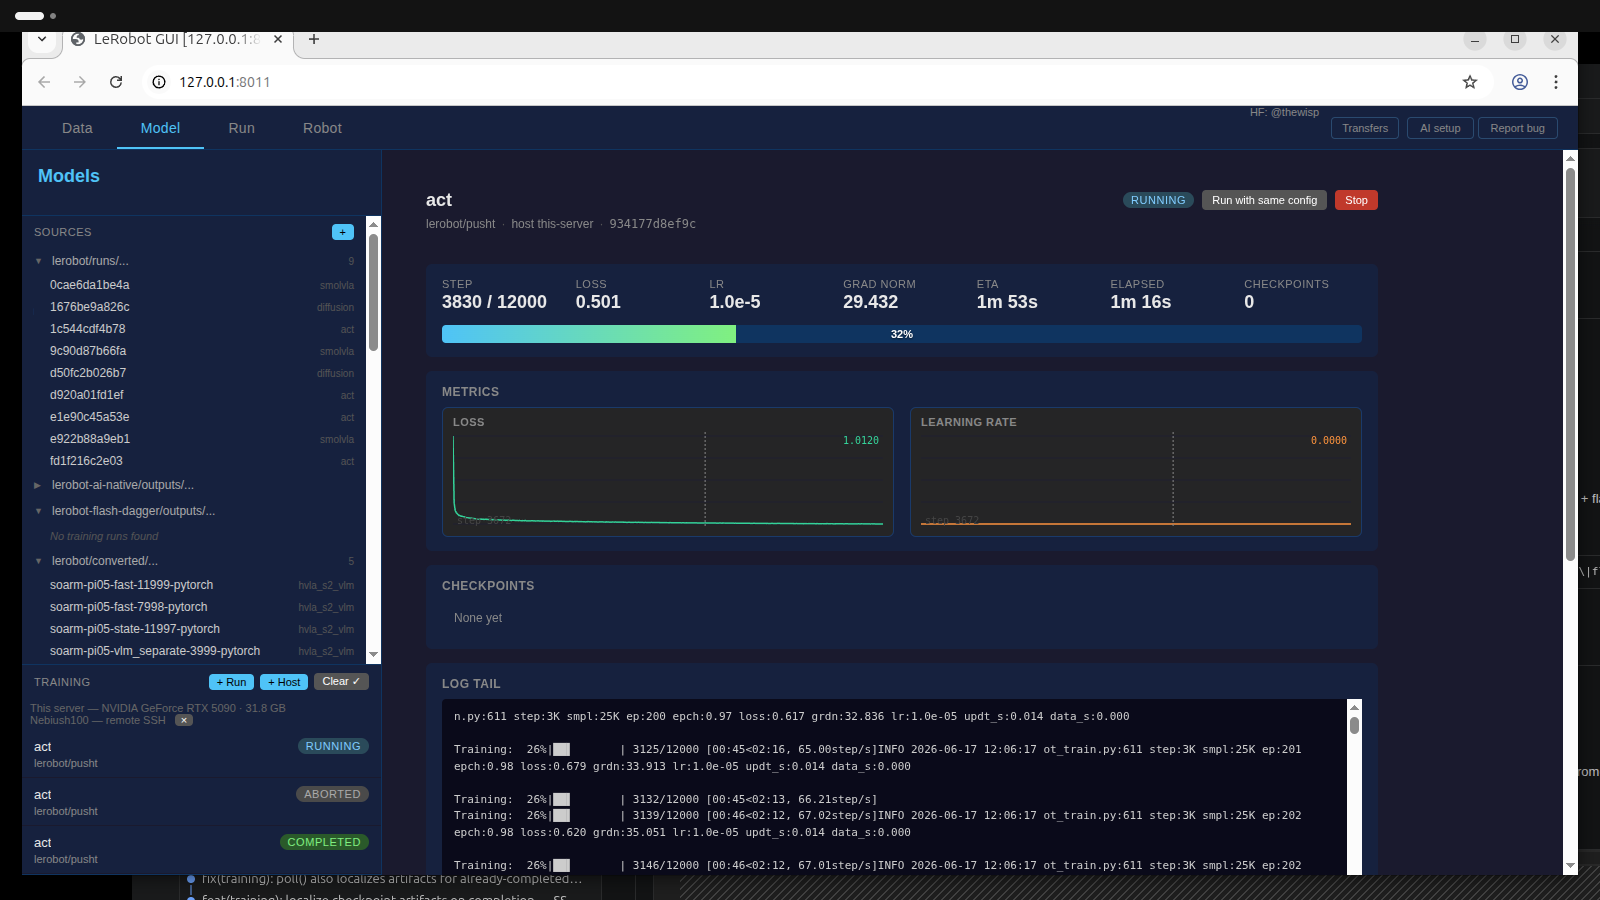
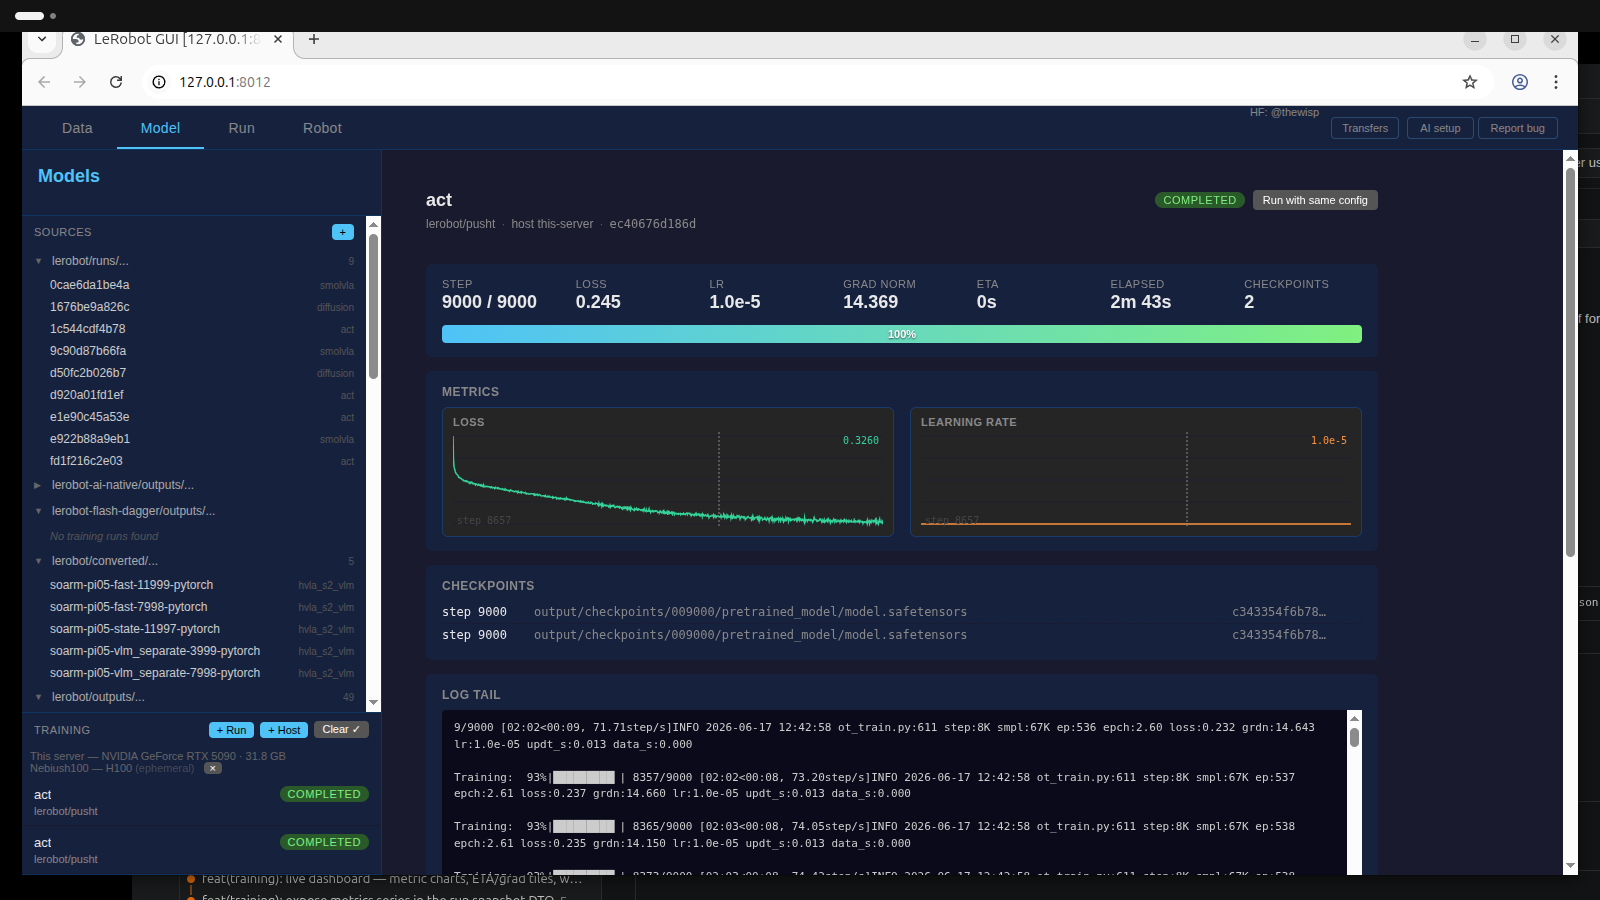
feat(training): log-scale loss chart + readable small-value labels
The loss spans orders of magnitude (warm-up ~40 → ~0.2); on a linear axis the
spike flattened the whole curve. Loss now renders log-y, so the descent is
visible. Chart value labels use scientific notation for tiny magnitudes — a
learning rate of 1e-5 was showing as "0.0000". Refresh the mid-run evidence
with a live recording (gif/mp4) + log-y stills.

diff --git a/src/lerobot/gui/static/charts.js b/src/lerobot/gui/static/charts.js
@@ -49,6 +49,15 @@ function _chartFmtAgo(ts) {
   return Math.round(ago / 3600) + "h ago";
 }
 
+// Value label: scientific for very small/large magnitudes (a learning rate of
+// 1e-5 must not render as "0.0000"), fixed otherwise.
+function _chartFmtValue(v) {
+  if (v === 0) return "0";
+  const a = Math.abs(v);
+  if (a < 1e-3 || a >= 1e5) return v.toExponential(1);
+  return a < 1 ? v.toFixed(4) : v.toFixed(3);
+}
+
 // Longest series across all charts in a group → shared X axis. Charts are
 // right-aligned: a short series occupies the right portion of the canvas.
 function _chartGroupN(group) {
@@ -81,10 +90,15 @@ function drawChart(canvasId, opts) {
   canvas.height = rect.height * dpr;
   canvas.getContext("2d").scale(dpr, dpr);
 
+  // logY keeps a wide-range series (a loss going 40 → 0.1 would otherwise let
+  // the warm-up spike flatten the whole curve) readable. Range is in log space;
+  // values still display linearly.
+  const logY = !!opts.logY;
+  const proj = (v) => (logY ? Math.log10(Math.max(v, 1e-9)) : v);
   let allVals = [];
   for (const s of series) allVals = allVals.concat(s.data);
-  const min = opts.fixedMin !== undefined ? opts.fixedMin : Math.min(...allVals);
-  const max = opts.fixedMax !== undefined ? opts.fixedMax : Math.max(...allVals);
+  const min = opts.fixedMin !== undefined ? opts.fixedMin : Math.min(...allVals.map(proj));
+  const max = opts.fixedMax !== undefined ? opts.fixedMax : Math.max(...allVals.map(proj));
 
   group.charts[canvasId] = {
     canvas,
@@ -92,6 +106,7 @@ function drawChart(canvasId, opts) {
     series,
     timestamps: opts.timestamps || [],
     percentage: !!opts.percentage,
+    logY,
     min,
     max,
     pad: 4,
@@ -145,7 +160,7 @@ function _renderChart(spec) {
     ctx.stroke();
   }
   // Zero line when the range straddles zero.
-  if (min < 0 && max > 0) {
+  if (!spec.logY && min < 0 && max > 0) {
     const zeroY = pad + (H - 2 * pad) * (1 - (0 - min) / range);
     ctx.strokeStyle = "#333";
     ctx.lineWidth = 0.8;
@@ -155,7 +170,8 @@ function _renderChart(spec) {
     ctx.stroke();
   }
 
-  const toY = (v) => pad + (H - 2 * pad) * (1 - (v - min) / range);
+  const projY = (v) => (spec.logY ? Math.log10(Math.max(v, 1e-9)) : v);
+  const toY = (v) => pad + (H - 2 * pad) * (1 - (projY(v) - min) / range);
   const toXGlobal = (i) => (i / Math.max(N - 1, 1)) * W;
   const globalIdx = (s, localIdx) => N - s.data.length + localIdx;
 
@@ -219,7 +235,7 @@ function _renderChart(spec) {
     const v = s.data[localIdx];
     const pct = s.percentage != null ? s.percentage : spec.percentage;
     ctx.fillStyle = s.color;
-    ctx.fillText(pct ? (v * 100).toFixed(0) + "%" : v.toFixed(4), W - 4, 12 + i * 12);
+    ctx.fillText(pct ? (v * 100).toFixed(0) + "%" : _chartFmtValue(v), W - 4, 12 + i * 12);
   }
 
   // Step / time label (bottom-left) — this chart's own timestamps.

diff --git a/src/lerobot/gui/static/index.html b/src/lerobot/gui/static/index.html
@@ -523,11 +523,11 @@
     <script src="/static/app.js?v=36"></script>
     <script src="/static/feature_editing.js?v=24"></script>
     <script src="/static/add_feature_dialog.js?v=2"></script>
-    <script src="/static/charts.js?v=1"></script>
+    <script src="/static/charts.js?v=2"></script>
     <script src="/static/robot.js?v=18"></script>
     <script src="/static/run.js?v=45"></script>
     <script src="/static/model.js?v=5"></script>
-    <script src="/static/training.js?v=19"></script>
+    <script src="/static/training.js?v=20"></script>
     <script src="/static/add_host_dialog.js?v=1"></script>
     <script src="/static/bug_report.js?v=1"></script>
     <script src="/static/bridge.js?v=1"></script>

diff --git a/src/lerobot/gui/static/training.js b/src/lerobot/gui/static/training.js
@@ -409,7 +409,7 @@ function trainingWandbUrl(text) {
 // canvases are drawn post-render by trainingDrawDetailCharts(). grad_norm +
 // other auto-captured keys live in the stat tiles / a future metric picker.
 const TRAINING_CHART_KEYS = [
-  { key: "loss", label: "Loss", color: "#34d399" },
+  { key: "loss", label: "Loss", color: "#34d399", logY: true }, // spans orders of magnitude
   { key: "lr", label: "Learning rate", color: "#fb923c" },
 ];
 
@@ -445,6 +445,7 @@ function trainingDrawDetailCharts(snap) {
         series: [{ data, color: c.color, label: c.label }],
         syncGroup: "training",
         latestStep,
+        logY: !!c.logY,
       });
     }
   }